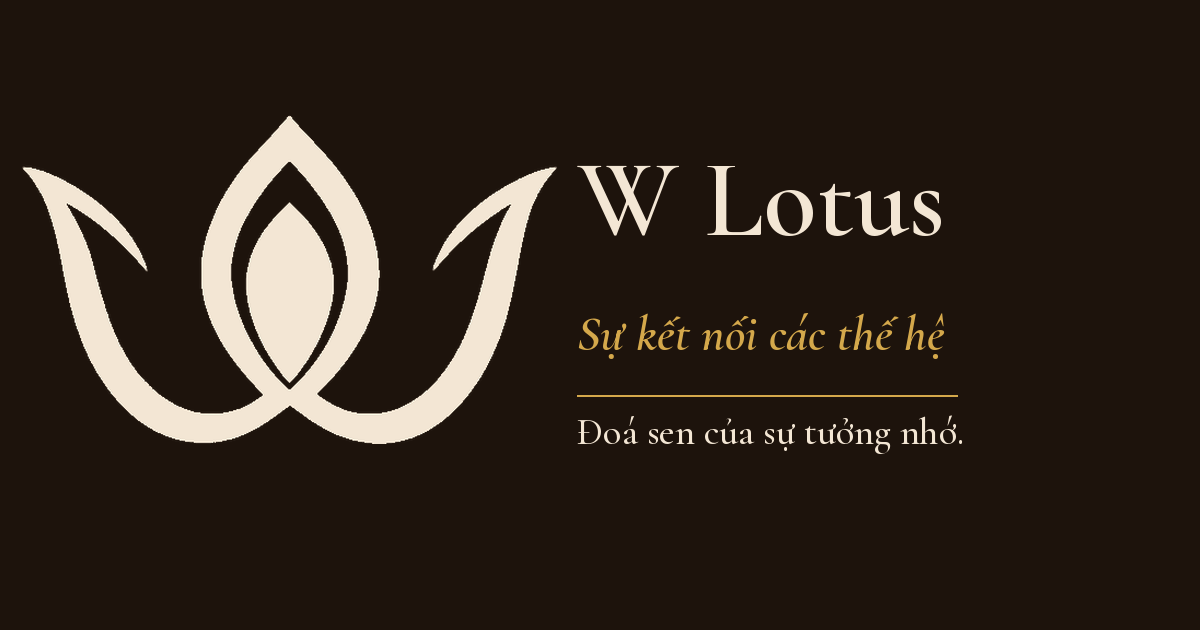
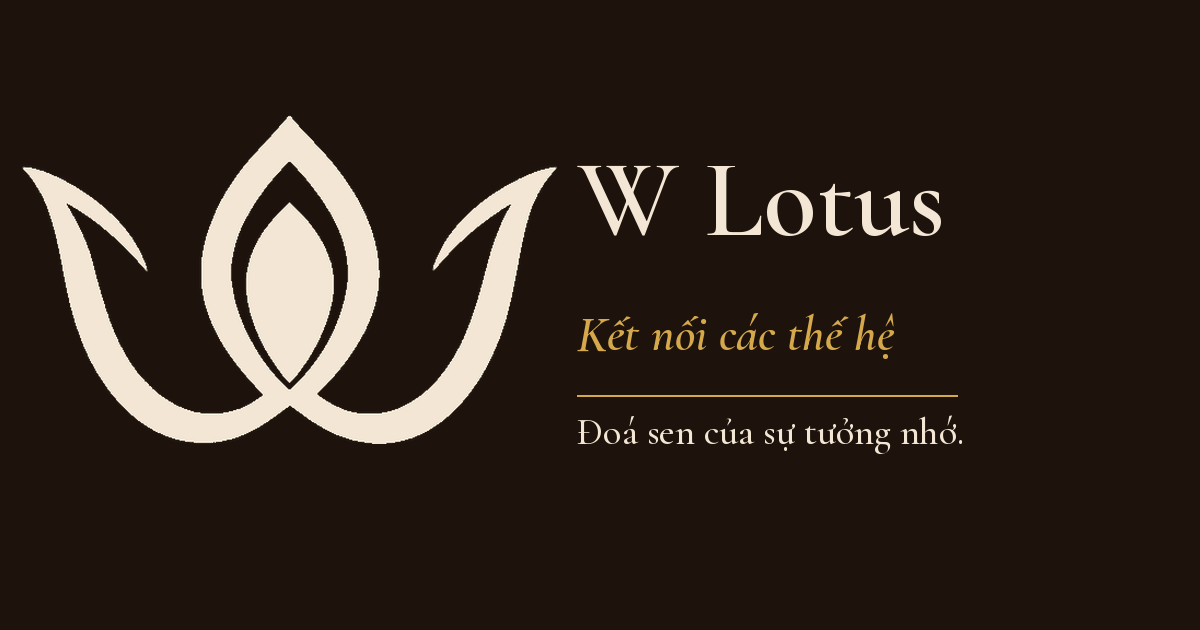
copy(web): drop Sự from the Vietnamese headline (#237)
Kết nối các thế hệ matches English Connecting generations.

Changed region(s): [[0.4625, 0.4825, 0.8017, 0.573]]

diff --git a/apps/web/index.html b/apps/web/index.html
@@ -10,7 +10,7 @@
     <meta name="apple-mobile-web-app-title" content="W Lotus" />
     <meta property="og:type" content="website" />
     <meta property="og:site_name" content="W Lotus" />
-    <meta property="og:title" content="W Lotus - Sự kết nối các thế hệ" />
+    <meta property="og:title" content="W Lotus - Kết nối các thế hệ" />
     <meta property="og:description" content="Đoá sen của sự tưởng nhớ." />
     <meta property="og:image" content="/images/og.png" />
     <meta property="og:image:type" content="image/png" />
@@ -21,7 +21,7 @@
     <meta property="og:locale:alternate" content="en_US" />
     <meta property="og:locale:alternate" content="zh_CN" />
     <meta name="twitter:card" content="summary_large_image" />
-    <meta name="twitter:title" content="W Lotus - Sự kết nối các thế hệ" />
+    <meta name="twitter:title" content="W Lotus - Kết nối các thế hệ" />
     <meta name="twitter:description" content="Đoá sen của sự tưởng nhớ." />
     <meta name="twitter:image" content="/images/og.png" />
     <meta name="twitter:image:alt" content="W Lotus — đoá sen của sự tưởng nhớ" />

diff --git a/tests/ogPreview.test.ts b/tests/ogPreview.test.ts
@@ -67,7 +67,7 @@ describe('ogPreview', () => {
   });
 
   it('uses brand fallback without a name', () => {
-    expect(ogCopy('vi', '').title).toBe('W Lotus - Sự kết nối các thế hệ');
+    expect(ogCopy('vi', '').title).toBe('W Lotus - Kết nối các thế hệ');
     expect(ogCopy('vi', '').description).toBe('Đoá sen của sự tưởng nhớ.');
     expect(ogCopy('en', '').title).toBe('W Lotus - Connecting generations');
   });

diff --git a/apps/web/src/i18n/messages.ts b/apps/web/src/i18n/messages.ts
@@ -434,7 +434,7 @@ const en: Dict = {
 const vi: Dict = {
   brand: 'W Lotus',
   brandWithLogo: 'Lotus',
-  headline: 'Sự kết nối các thế hệ',
+  headline: 'Kết nối các thế hệ',
   tagline: 'Đoá sen của sự tưởng nhớ.',
   offerTitle: 'Dâng Hoa',
   hintPrayMine:

diff --git a/apps/dana-index/src/ogPreview.ts b/apps/dana-index/src/ogPreview.ts
@@ -114,7 +114,7 @@ export function ogCopy(
       };
     default:
       return {
-        title: 'W Lotus - Sự kết nối các thế hệ',
+        title: 'W Lotus - Kết nối các thế hệ',
         description: 'Đoá sen của sự tưởng nhớ.',
       };
   }

diff --git a/scripts/build-og-image.py b/scripts/build-og-image.py
@@ -62,7 +62,7 @@ CARDS = (
     {
         "locale": "vi",
         "file": "og.png",
-        "tag": "Sự kết nối các thế hệ",
+        "tag": "Kết nối các thế hệ",
         "body": "Đoá sen của sự tưởng nhớ.",
         "cjk": False,
     },

diff --git a/apps/dana-index/README.md b/apps/dana-index/README.md
@@ -33,7 +33,7 @@ The OG page boots the SPA in browsers; crawlers keep the meta tags.
 | Case | `og:title` (default VI) |
 |------|-------------------------|
 | Altar / named dedication | `Tưởng nhớ {name}` |
-| No name | `W Lotus - Sự kết nối các thế hệ` |
+| No name | `W Lotus - Kết nối các thế hệ` |
 
 `og:description` (no name): `Đoá sen của sự tưởng nhớ.`
 
